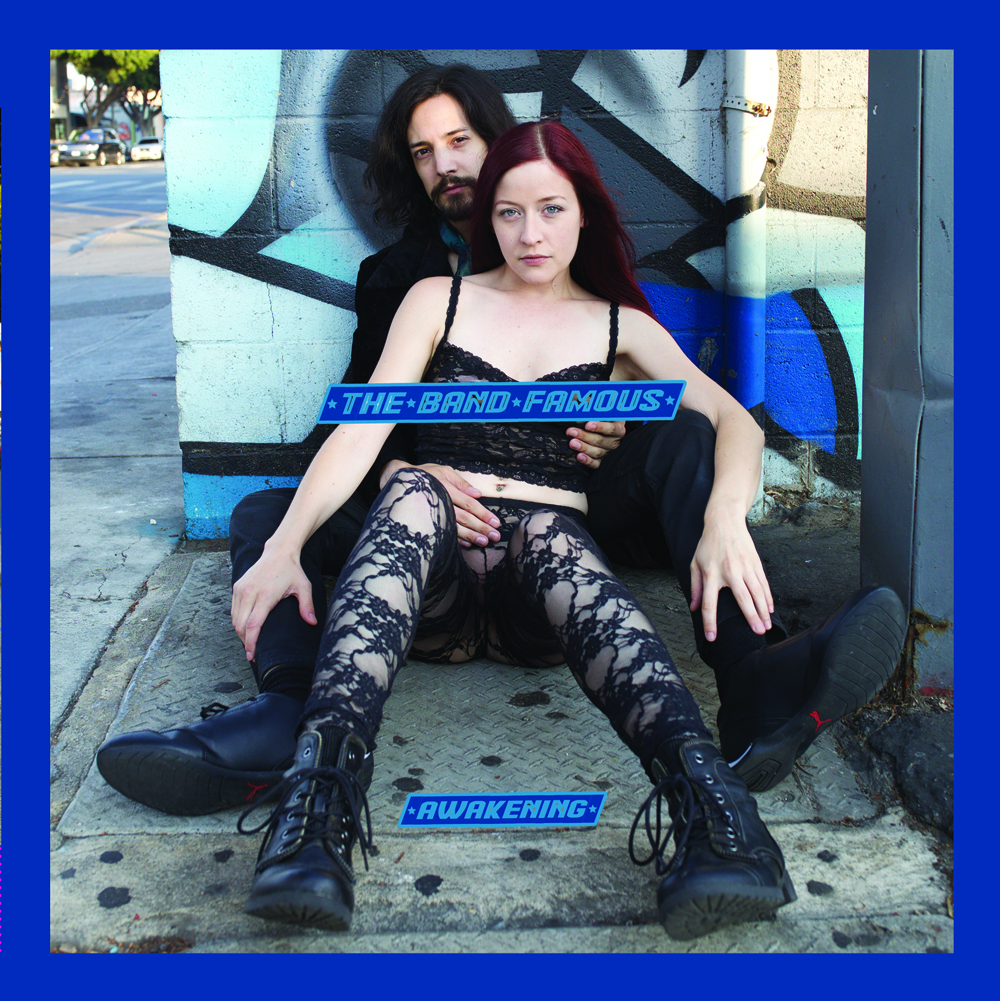
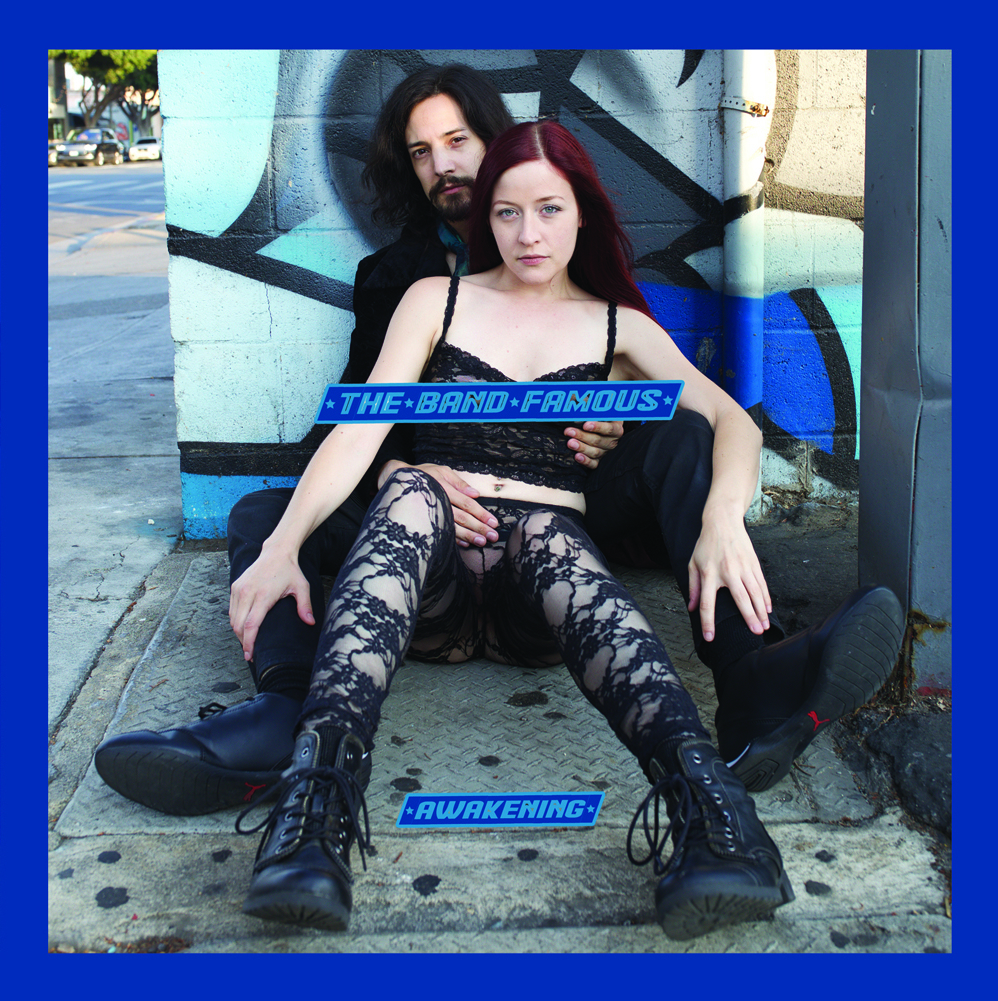
updates

diff --git a/lyrics.html b/lyrics.html
@@ -89,10 +89,10 @@
       <p style="font-size: 22px; margin-bottom: 10px; margin-top: 50px; color: white;">Albums:</p>
 
       <!-- Awakening -->
-      
+      <a href="awakening-ep.html" class="music" title="Awakening"><img src="img/shop/AwakeningEP-CD.jpg" style="width: 25.4%; height: auto;"></a>
 
       <!-- Last Words -->
-      <a href="lastwords.html"><img src="img/ep.jpg" alt="Get TBF's debut EP Last Words for free in the TBF app!" style=" width: 30%;"/></a>
+      <a href="lastwords.html"><img src="img/ep.jpg" alt="Get TBF's debut EP Last Words for free in the TBF app!" style=" width: 30%; height: auto;"/></a>
 
     </li>
     <li> 
